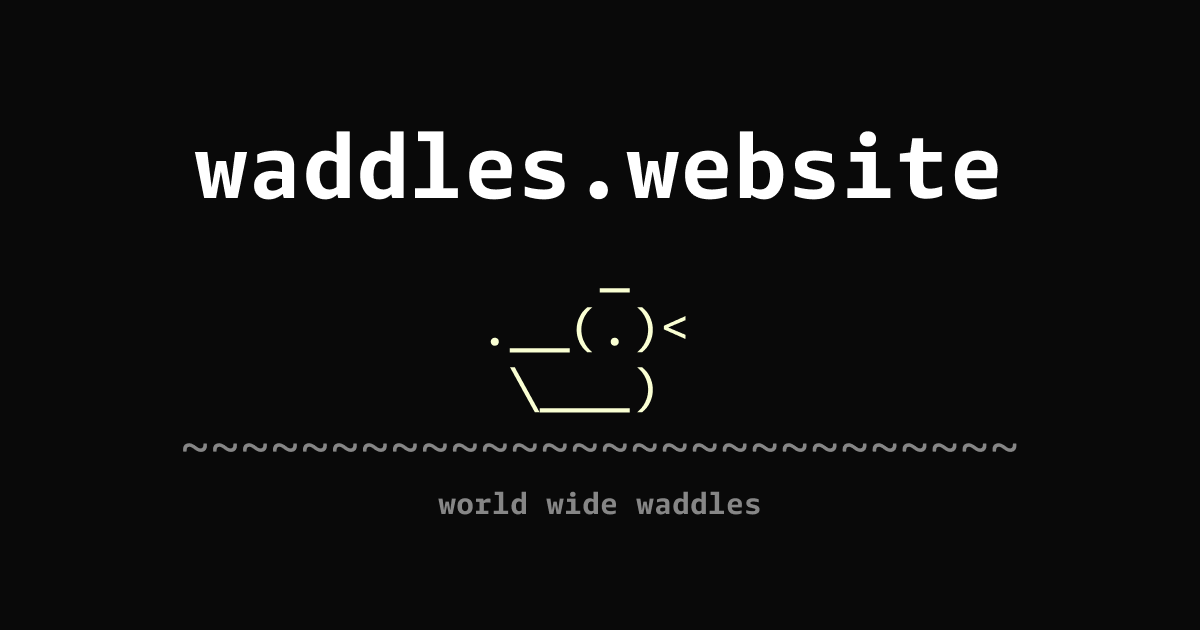
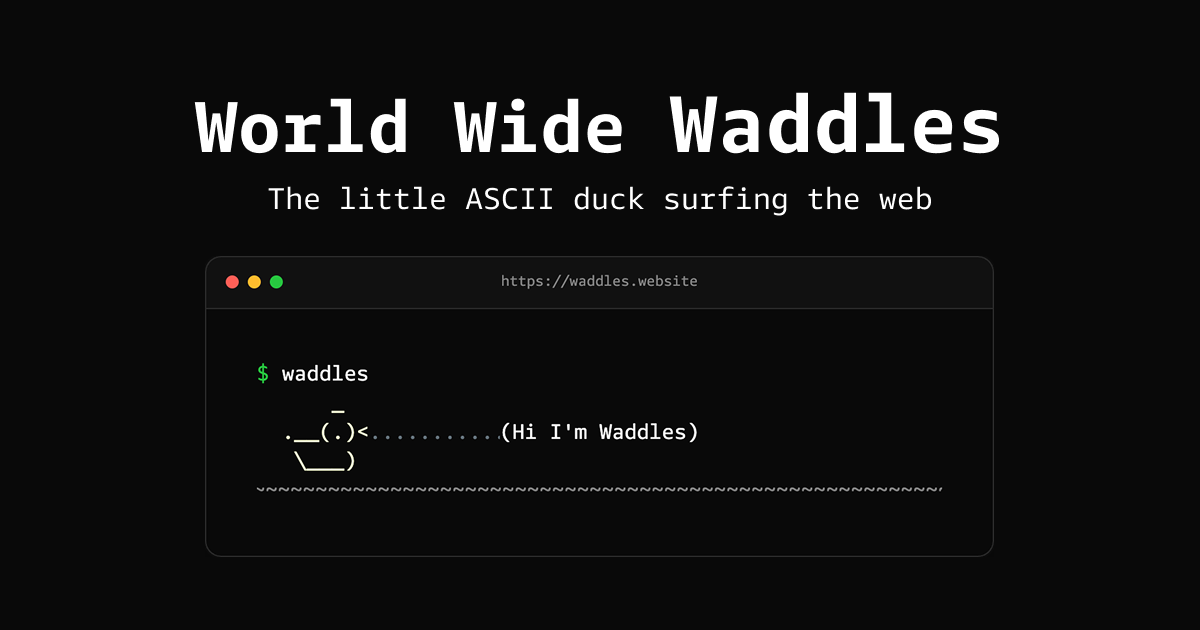
Update UI and OG

diff --git a/apps/www/src/utils/clipboard.ts b/apps/www/src/utils/clipboard.ts
@@ -1,11 +1,7 @@
 const EXPORT_WIDTH = 1_200;
 const EXPORT_HEIGHT = 630;
-const EXPORT_LABEL = "waddles.website";
-const EXPORT_LABEL_COLOR = "#868686";
-const EXPORT_LABEL_FONT_SIZE = 44;
-const EXPORT_SCENE_AREA_TOP = 48;
 const EXPORT_SCENE_MAX_WIDTH = 1_104;
-const EXPORT_SCENE_MAX_HEIGHT = 490;
+const EXPORT_SCENE_MAX_HEIGHT = 534;
 
 function createSceneBlob(canvas: HTMLCanvasElement) {
   const styles = window.getComputedStyle(canvas);
@@ -30,8 +26,7 @@ function createSceneBlob(canvas: HTMLCanvasElement) {
   const sceneWidth = canvas.width * sceneScale;
   const sceneHeight = canvas.height * sceneScale;
   const sceneLeft = (EXPORT_WIDTH - sceneWidth) / 2;
-  const sceneTop =
-    EXPORT_SCENE_AREA_TOP + (EXPORT_SCENE_MAX_HEIGHT - sceneHeight) / 2;
+  const sceneTop = (EXPORT_HEIGHT - sceneHeight) / 2;
 
   context.save();
   context.shadowColor = "rgb(0 0 0 / 45%)";
@@ -54,16 +49,6 @@ function createSceneBlob(canvas: HTMLCanvasElement) {
     sceneHeight,
   );
   context.restore();
-
-  context.fillStyle = EXPORT_LABEL_COLOR;
-  context.font = `${EXPORT_LABEL_FONT_SIZE}px ${styles.fontFamily}`;
-  context.textAlign = "right";
-  context.textBaseline = "middle";
-  context.fillText(
-    EXPORT_LABEL,
-    sceneLeft + sceneWidth,
-    (sceneTop + sceneHeight + EXPORT_HEIGHT) / 2,
-  );
 
   return new Promise<Blob>((resolve, reject) => {
     sceneCanvas.toBlob((blob) => {

diff --git a/apps/www/src/components/WaddlesCanvas.tsx b/apps/www/src/components/WaddlesCanvas.tsx
@@ -6,7 +6,7 @@ const WADDLES_BODY = String.raw` \___)`;
 const WAVE_PATTERN = "~~~~";
 const WAVE_CHARACTERS_PER_SECOND = 6;
 const WATER_COLOR = "#868686";
-const TERMINAL_TITLE = "waddles";
+const TERMINAL_TITLE = "https://waddles.website";
 const TERMINAL_TITLEBAR_COLOR = "#111";
 const TERMINAL_BORDER_COLOR = "#2a2a2a";
 const TERMINAL_TITLE_COLOR = "#868686";

diff --git a/README.md b/README.md
@@ -3,8 +3,8 @@
 ![Waddles surfing a bright blue wave](docs/waddles-readme.png)
 
 A tiny open source home for Waddles, built with React and hosted with AWS
-Amplify. His signature ASCII greetings are powered by
-[DuckSay](https://github.com/sboult/ducksay), a Rust CLI that makes Waddles say
+Amplify. His signature ASCII greetings are insired by
+[Ducksay](https://github.com/sboult/ducksay), a Rust CLI that makes Waddles say
 whatever is on his mind.
 
 ## Developing
